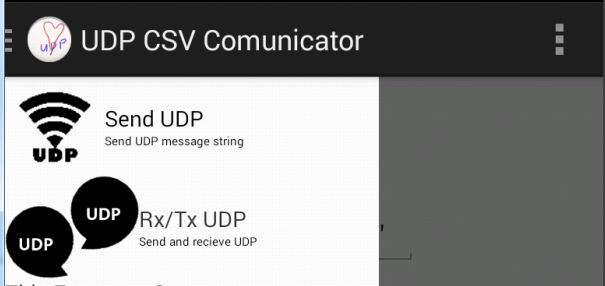
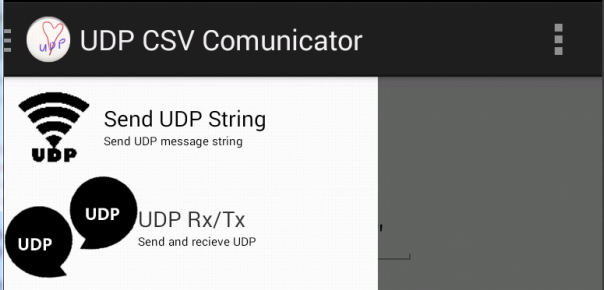
Updated the Documentation

diff --git a/README.md b/README.md
@@ -2,7 +2,9 @@ UDP CSV Comunicator Experiment
 ===============================
 ###Warning this is a project under develoment and it might not work :) !
 
-The Application sends A UDP packages that contains a CSV(Coma Separeted Values) ASCII string.   
+The Application has different tools for working width UDP Packaged
+
+The Main Menu show the different utils in a ActionBar as show below
 ###![alt tag](https://raw.githubusercontent.com/rlangoy/IFIVUDPCSVComunicatorExperiment/AlphaDev/doc/Images/MainActivity.PNG)
 
 #Working functionalities:
@@ -12,9 +14,15 @@ The Application sends A UDP packages that contains a CSV(Coma Separeted Values) 
 ![alt tag](https://raw.githubusercontent.com/rlangoy/IFIVUDPCSVComunicatorExperiment/AlphaDev/doc/Images/PhoneIpAddress.PNG)
 ###Dialog to Show the Wifi IP-Address
   
-![alt tag](https://raw.githubusercontent.com/rlangoy/IFIVUDPCSVComunicatorExperiment/AlphaDev/doc/Images/SendButton.PNG)
+![alt tag](https://raw.githubusercontent.com/rlangoy/IFIVUDPCSVComunicatorExperiment/AlphaDev/doc/Images/SendCSVString.PNG)
 ###Sends the UDP message displayed in the EditText field when the user pushes the button "Send CVS String"
-  
+
+
+![alt tag](https://raw.githubusercontent.com/rlangoy/IFIVUDPCSVComunicatorExperiment/AlphaDev/doc/Images/RxTxUDP.PNG)
+###UDP Chat Program. Sends and Recieves UDP Messages
+
+
+
 Work in the develoment braches/Intentions
 --------------------------
 The Application is intended to used in the cource EN-SOC3000 (System on chip design) to show how to interact
